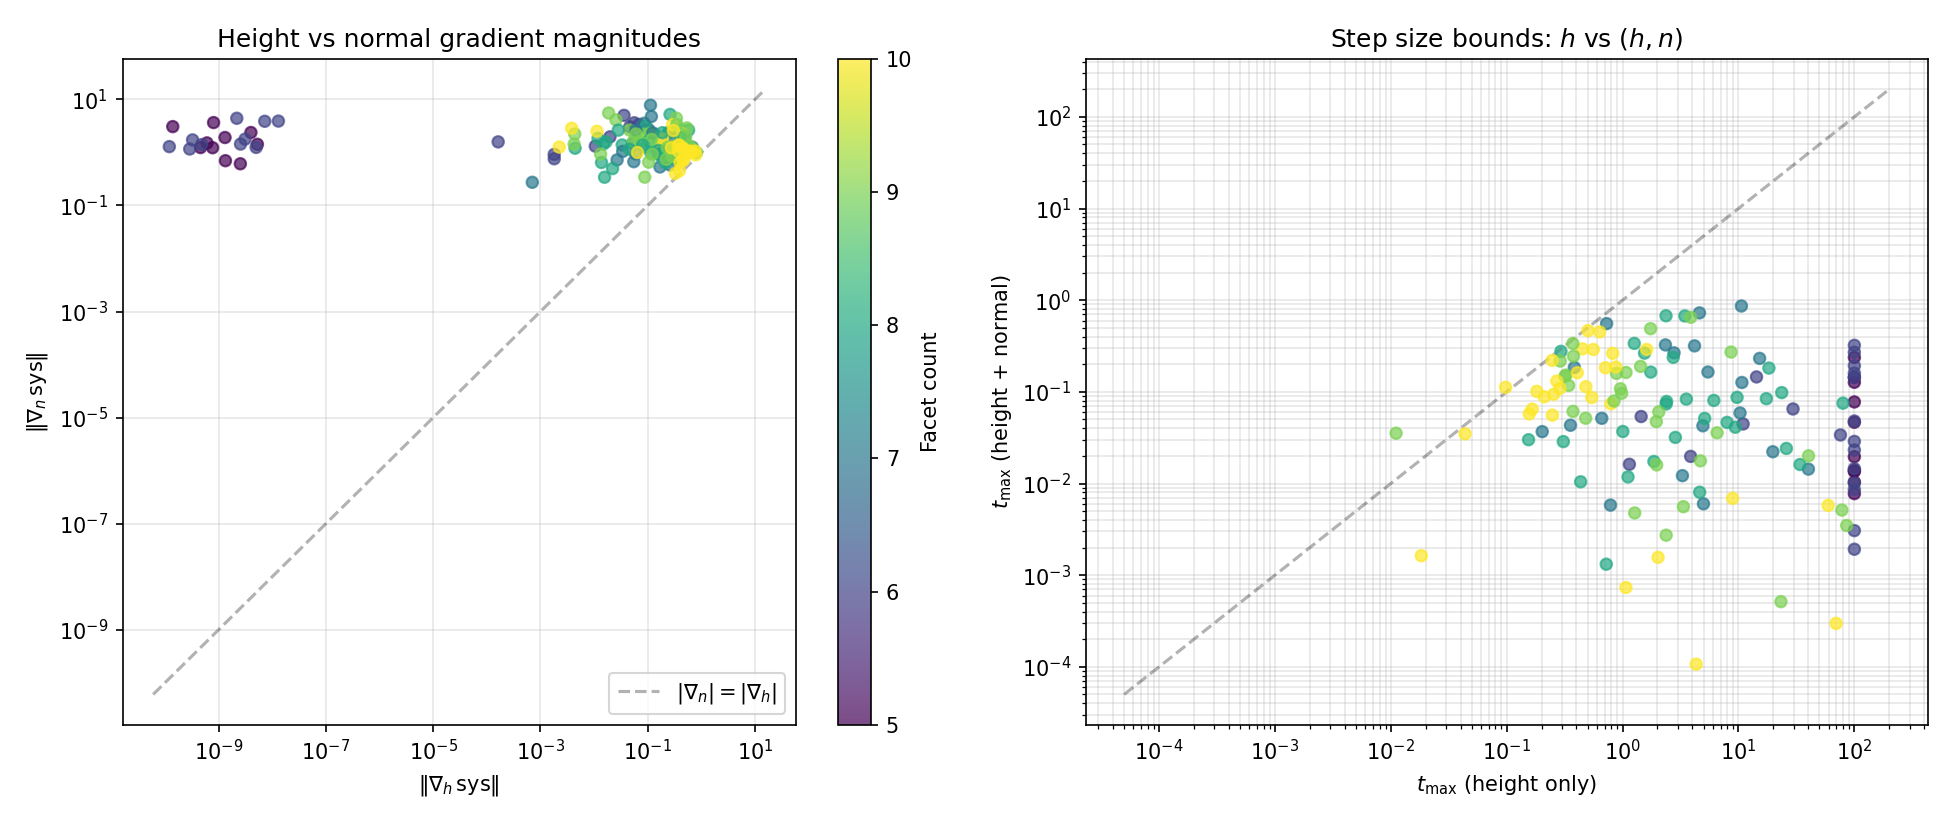
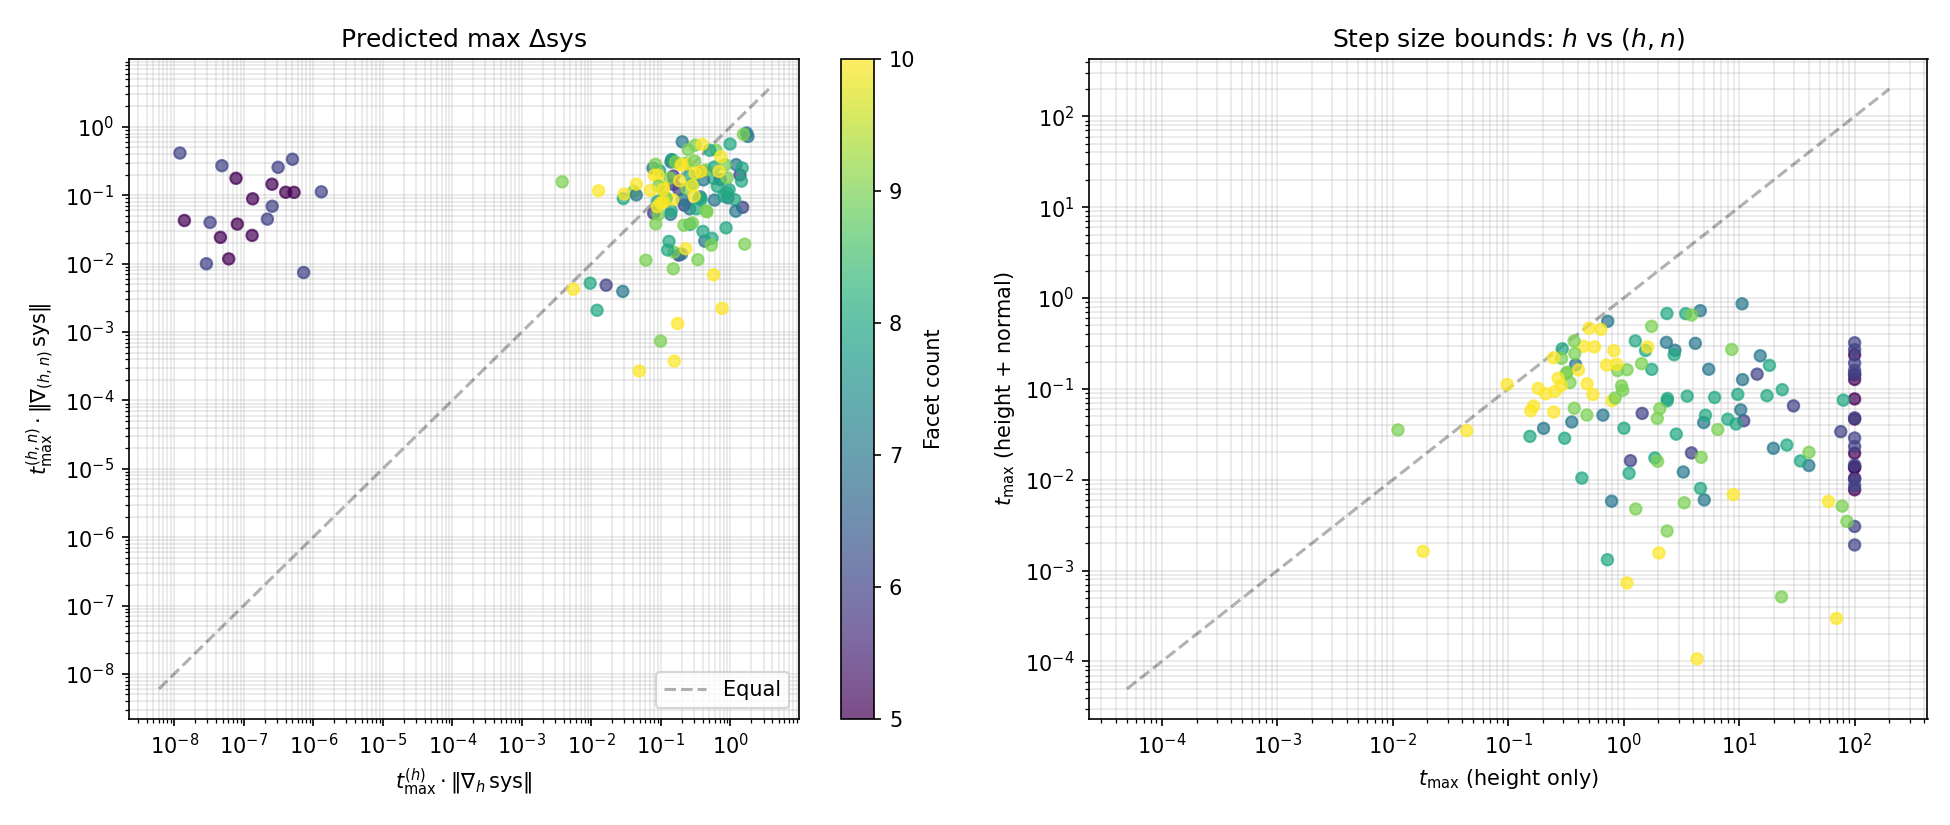
Regenerate figures and stats after dimension fix

diff --git a/experiments/sys-optimization/sys_optimization_stats.tex b/experiments/sys-optimization/sys_optimization_stats.tex
@@ -5,9 +5,8 @@ Statistic & Value \\
 Polytopes analyzed & 140 \\
 Polytopes with $\|\nabla_{(h,n)} \mathrm{sys}\| > 0$ & 140 \\
 \midrule
-Mean $\|\nabla_h \mathrm{sys}\|$ & 0.1923 \\
-Mean $\|\nabla_n \mathrm{sys}\|$ & 1.7529 \\
-Mean $\|\nabla_{(h,n)} \mathrm{sys}\|$ & 1.7853 \\
+Mean predicted max $\Delta\mathrm{sys}$ ($h$-only) & 0.3382 \\
+Mean predicted max $\Delta\mathrm{sys}$ ($(h,n)$) & 0.1529 \\
 \midrule
 Improved by $h$-only step & 126/140 \\
 Improved by $(h,n)$ step & 129/140 \\
